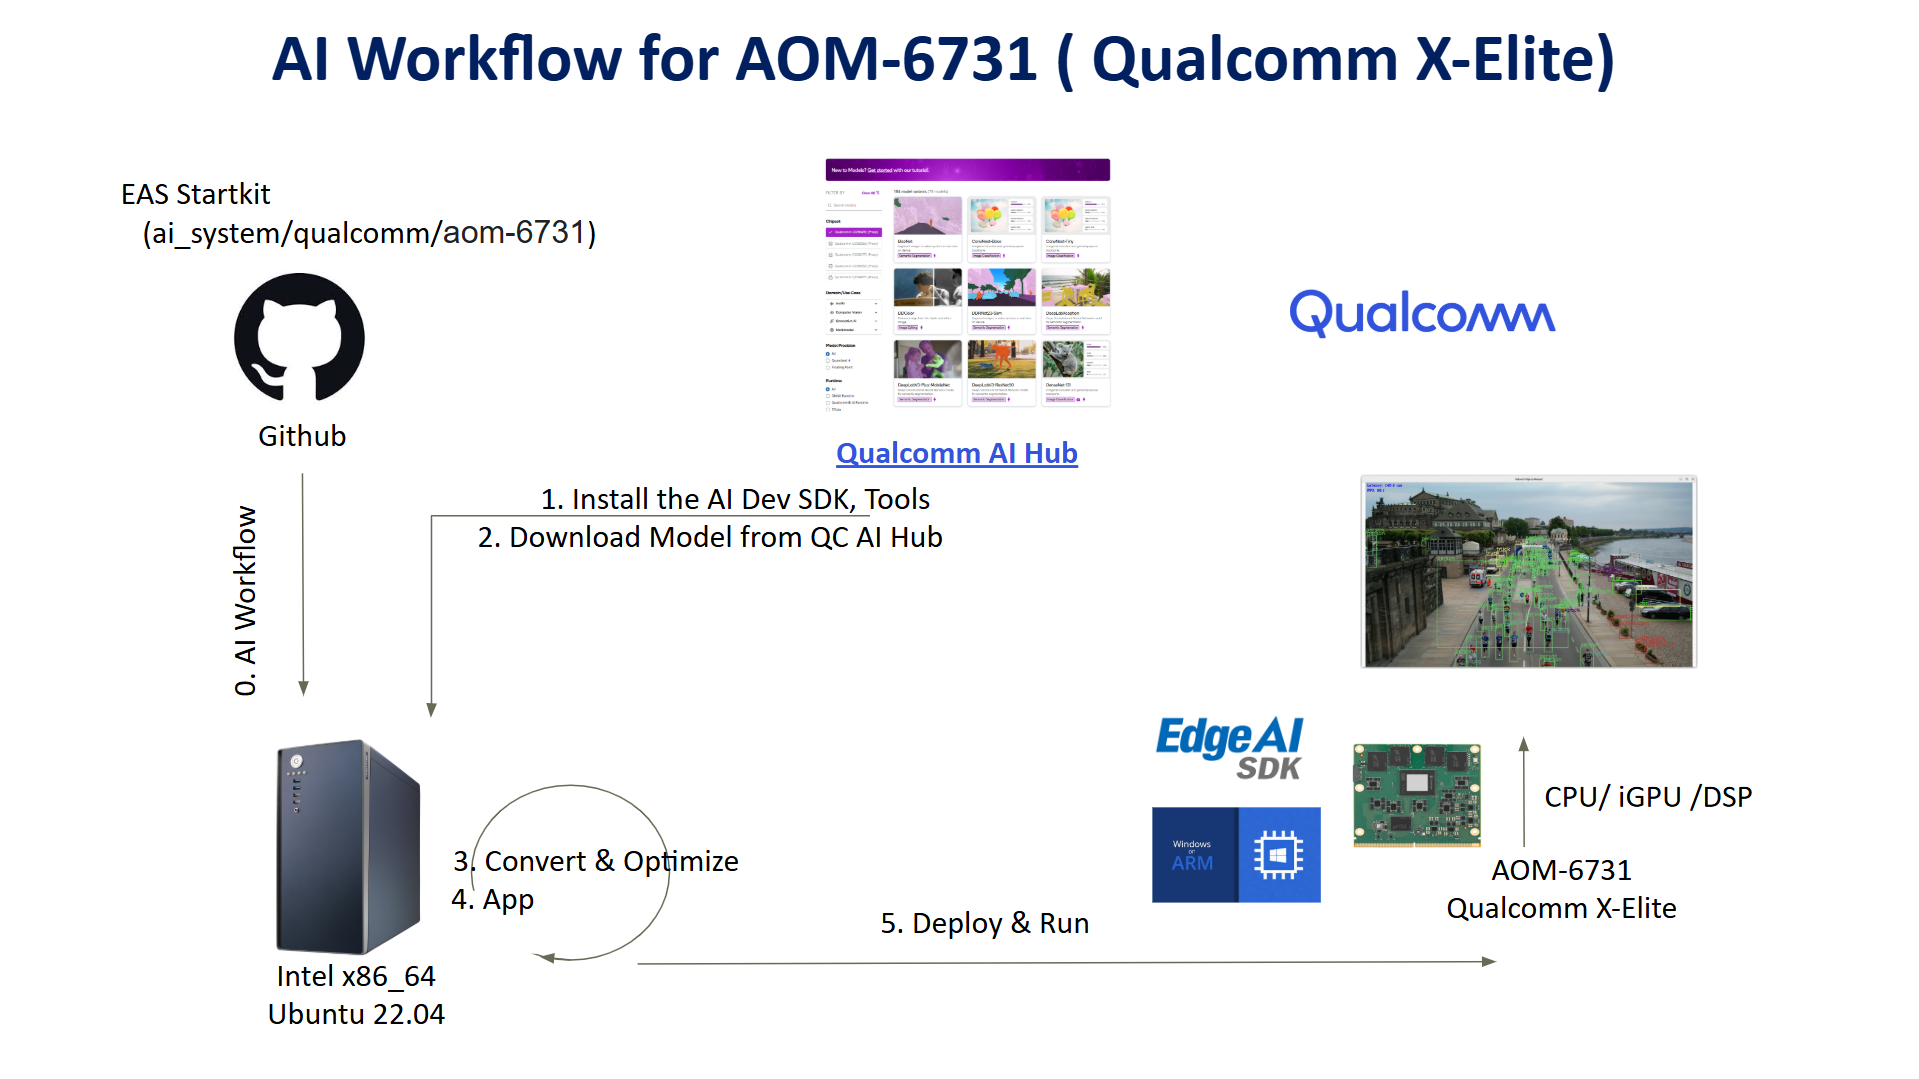
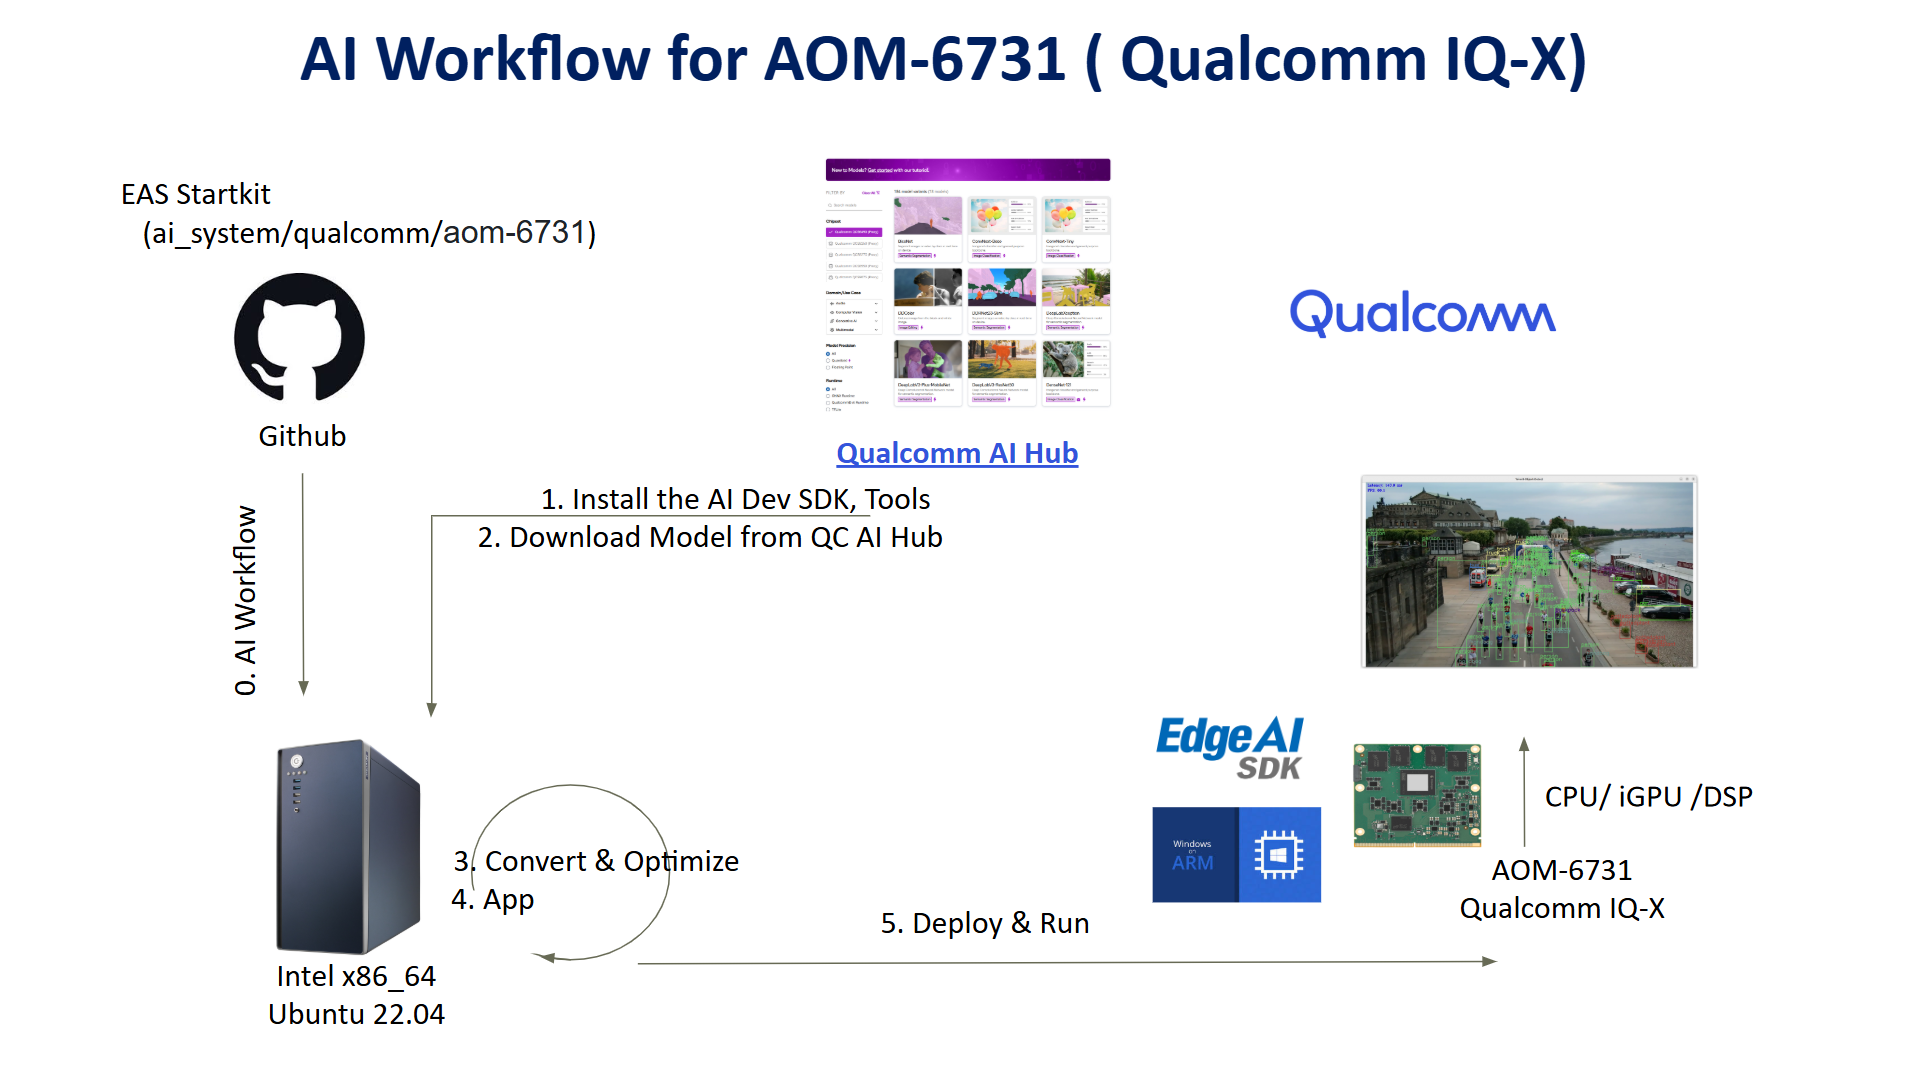
refactor(qualcomm): update hardware SoC name

diff --git a/ai_sdk/qualcomm/qairt/2.43.0.260128/windows/object_detection_on_xelite_windows_with_ai_hub_yolov11n.md b/ai_sdk/qualcomm/qairt/2.43.0.260128/windows/object_detection_on_xelite_windows_with_ai_hub_yolov11n.md
@@ -1,8 +1,8 @@
-Developing an Object Detection Application on Qualcomm Snapdragon X Elite (Windows) Using Qualcomm AI Hub
+Developing an Object Detection Application on Qualcomm IQ-X (Windows) Using Qualcomm AI Hub
 ===
 
-This example demonstrates how to develop and deploy a Vision AI application on the Snapdragon X Elite platform using Qualcomm AI Hub.
-This guide walks developers through the complete workflow, from generating the model artifacts to deploying them on a Snapdragon X Elite device.
+This example demonstrates how to develop and deploy a Vision AI application on the IQ-X platform using Qualcomm AI Hub.
+This guide walks developers through the complete workflow, from generating the model artifacts to deploying them on a IQ-X device.
 
 
 * Application: Object Detection
@@ -14,12 +14,12 @@ This guide walks developers through the complete workflow, from generating the m
   - [Target](#target) 
   - [Development Environment Setup](#development-environment-setup)
     - [Setup on Ubuntu 22.04 (x86_64) host machine](#setup-on-ubuntu-2204-x86_64-host-machine)
-    - [Setup on the Qualcomm Snapdragon X Elite Target Device](#setup-on-the-qualcomm-snapdragon-x-elite-target-device)
+    - [Setup on the Qualcomm IQ-X Target Device](#setup-on-the-qualcomm-iq-x-target-device)
 - [Development Flow](#development-flow) 
   - [How to Generate Models on an Ubuntu 22.04 (x86_64) Host Machine](#how-to-generate-models-on-an-ubuntu-2204-x86_64-host-machine) 
     - [Generate the ONNX Model for CPU / iGPU](#generate-the-onnx-model-for-cpu--igpu) 
     - [Generate the DLC Model for NPU Using Qualcomm AI Hub](#generate-the-dlc-model-for-npu-using-qualcomm-ai-hub) 
-  - [How to Build the Application on the Qualcomm Snapdragon X Elite Target Device](#how-to-build-the-application-on-the-qualcomm-snapdragon-x-elite-target-device)
+  - [How to Build the Application on the Qualcomm IQ-X Target Device](#how-to-build-the-application-on-the-qualcomm-iq-x-target-device)
     - [For CPU / iGPU](#for-cpu--igpu) 
     - [For NPU](#for-npu) 
 - [Deploy](#deploy)
@@ -33,7 +33,7 @@ Refer to the following requirements to prepare both the target device and the de
 ## Target
 | Item | Content | Note |
 | -------- | -------- | -------- |
-| SoC | Qualcomm Snapdragon X Elite ||
+| SoC | Qualcomm IQ-X ||
 | Accelerator | NPU | |
 | OS/Build | Windows 11 IoT Enterprise (ARM64) | |
 | SDK |  Qualcomm AI Runtime SDK 2.43.0  | |
@@ -91,7 +91,7 @@ pip install "qai-hub-models[yolov11-det]"
    ```
 
 ---
-## Setup on the Qualcomm Snapdragon X Elite Target Device
+## Setup on the Qualcomm IQ-X Target Device
 
 #### Step 1. Install Visual Studio & CMake
 * Install Git: [Git for Windows/x64 Setup](https://git-scm.com/install/windows)
@@ -173,7 +173,7 @@ Copy the optimized AI model (`yolov11_det.dlc`) to the target device
 
 ---
 
-## How to Build the Application on the Qualcomm Snapdragon X Elite Target Device
+## How to Build the Application on the Qualcomm IQ-X Target Device
 
 ### For CPU / iGPU
 

diff --git a/ai_system/qualcomm/aom-6731/README.md b/ai_system/qualcomm/aom-6731/README.md
@@ -1,5 +1,5 @@
 # Overview
-This folder contains the process and instructions for AI development on the  AOM-6731 (Qualcomm X Elite)
+This folder contains the process and instructions for AI development on the  AOM-6731 (Qualcomm IQ-X)
 
 
 ![eas_ai_workflow](/assets/qualcomm/eas_startkit_aom-6731.png)
@@ -9,7 +9,7 @@ This folder contains the process and instructions for AI development on the  AOM
 
 Use the workflow need to base on Edge AI SDK.
 
-Install Edge AI SDK(v3.6.3) : [Download](https://docs.edge-ai-sdk.advantech.com/docs/Hardware/AI_System/Qualcomm/X-Elite/AOM-6731#Win11_snpe243)
+Install Edge AI SDK(v3.6.3) : [Download](https://docs.edge-ai-sdk.advantech.com/docs/Hardware/AI_System/Qualcomm/IQ-X/AOM-6731#Win11_snpe243)
 
 
 
